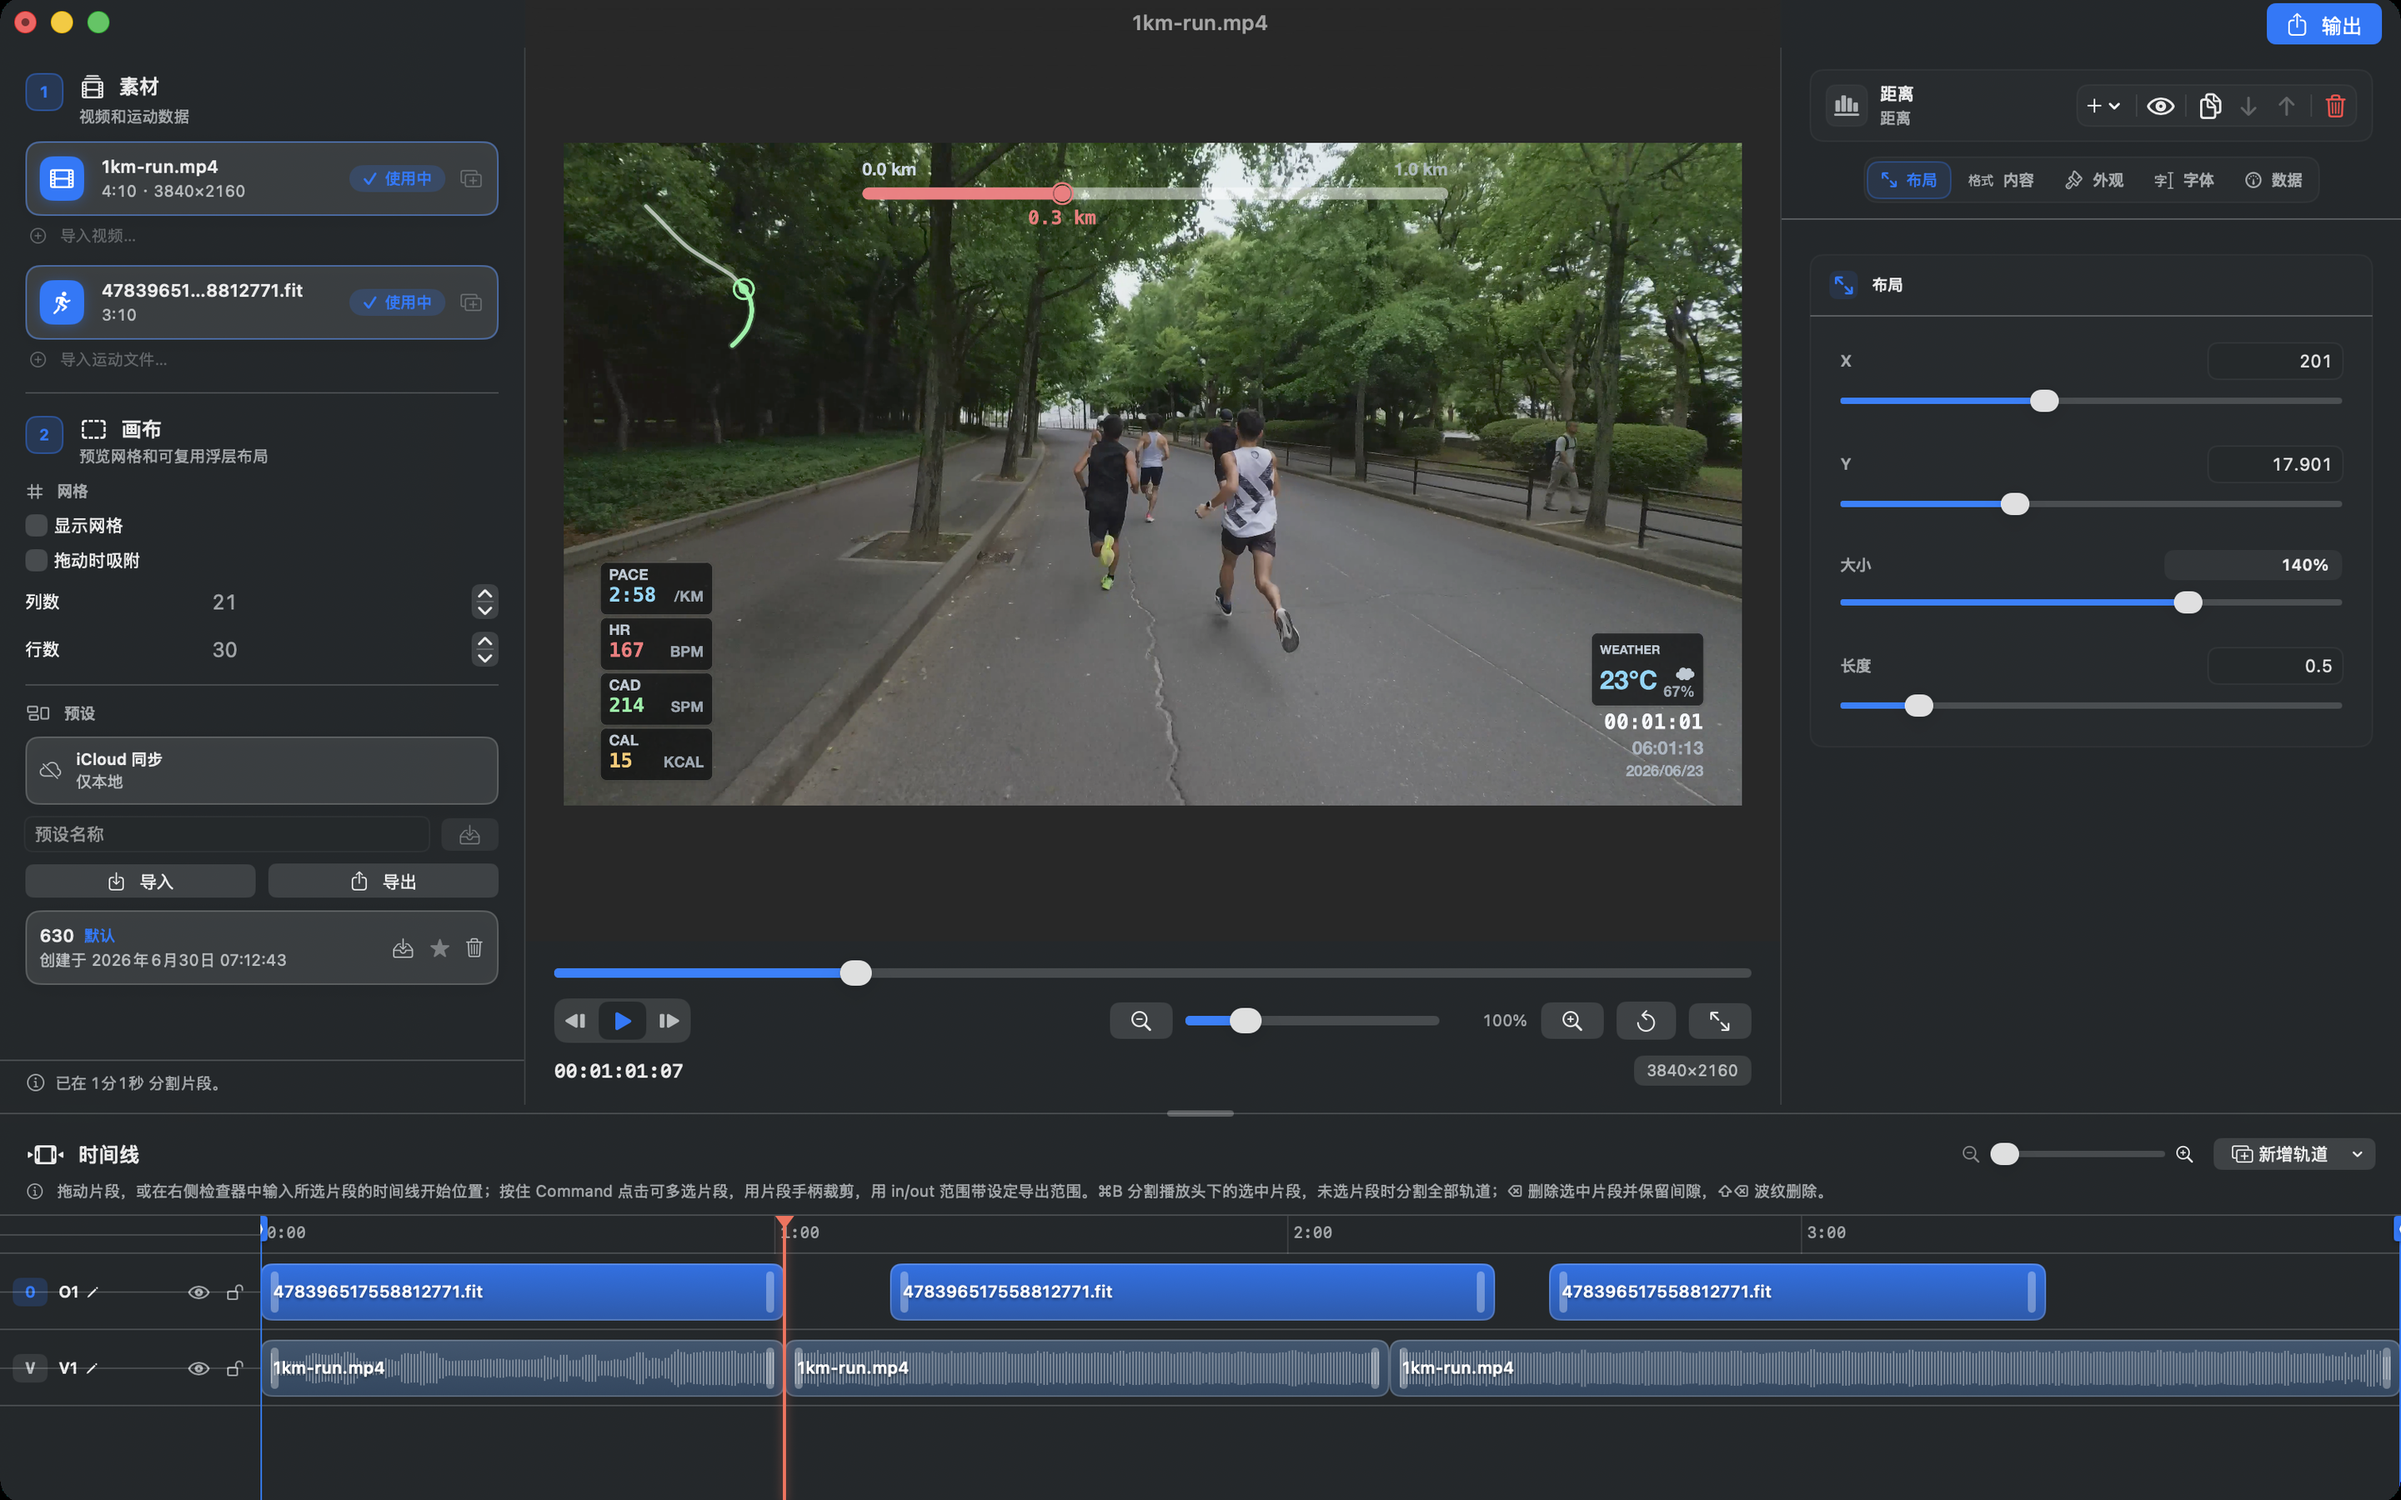
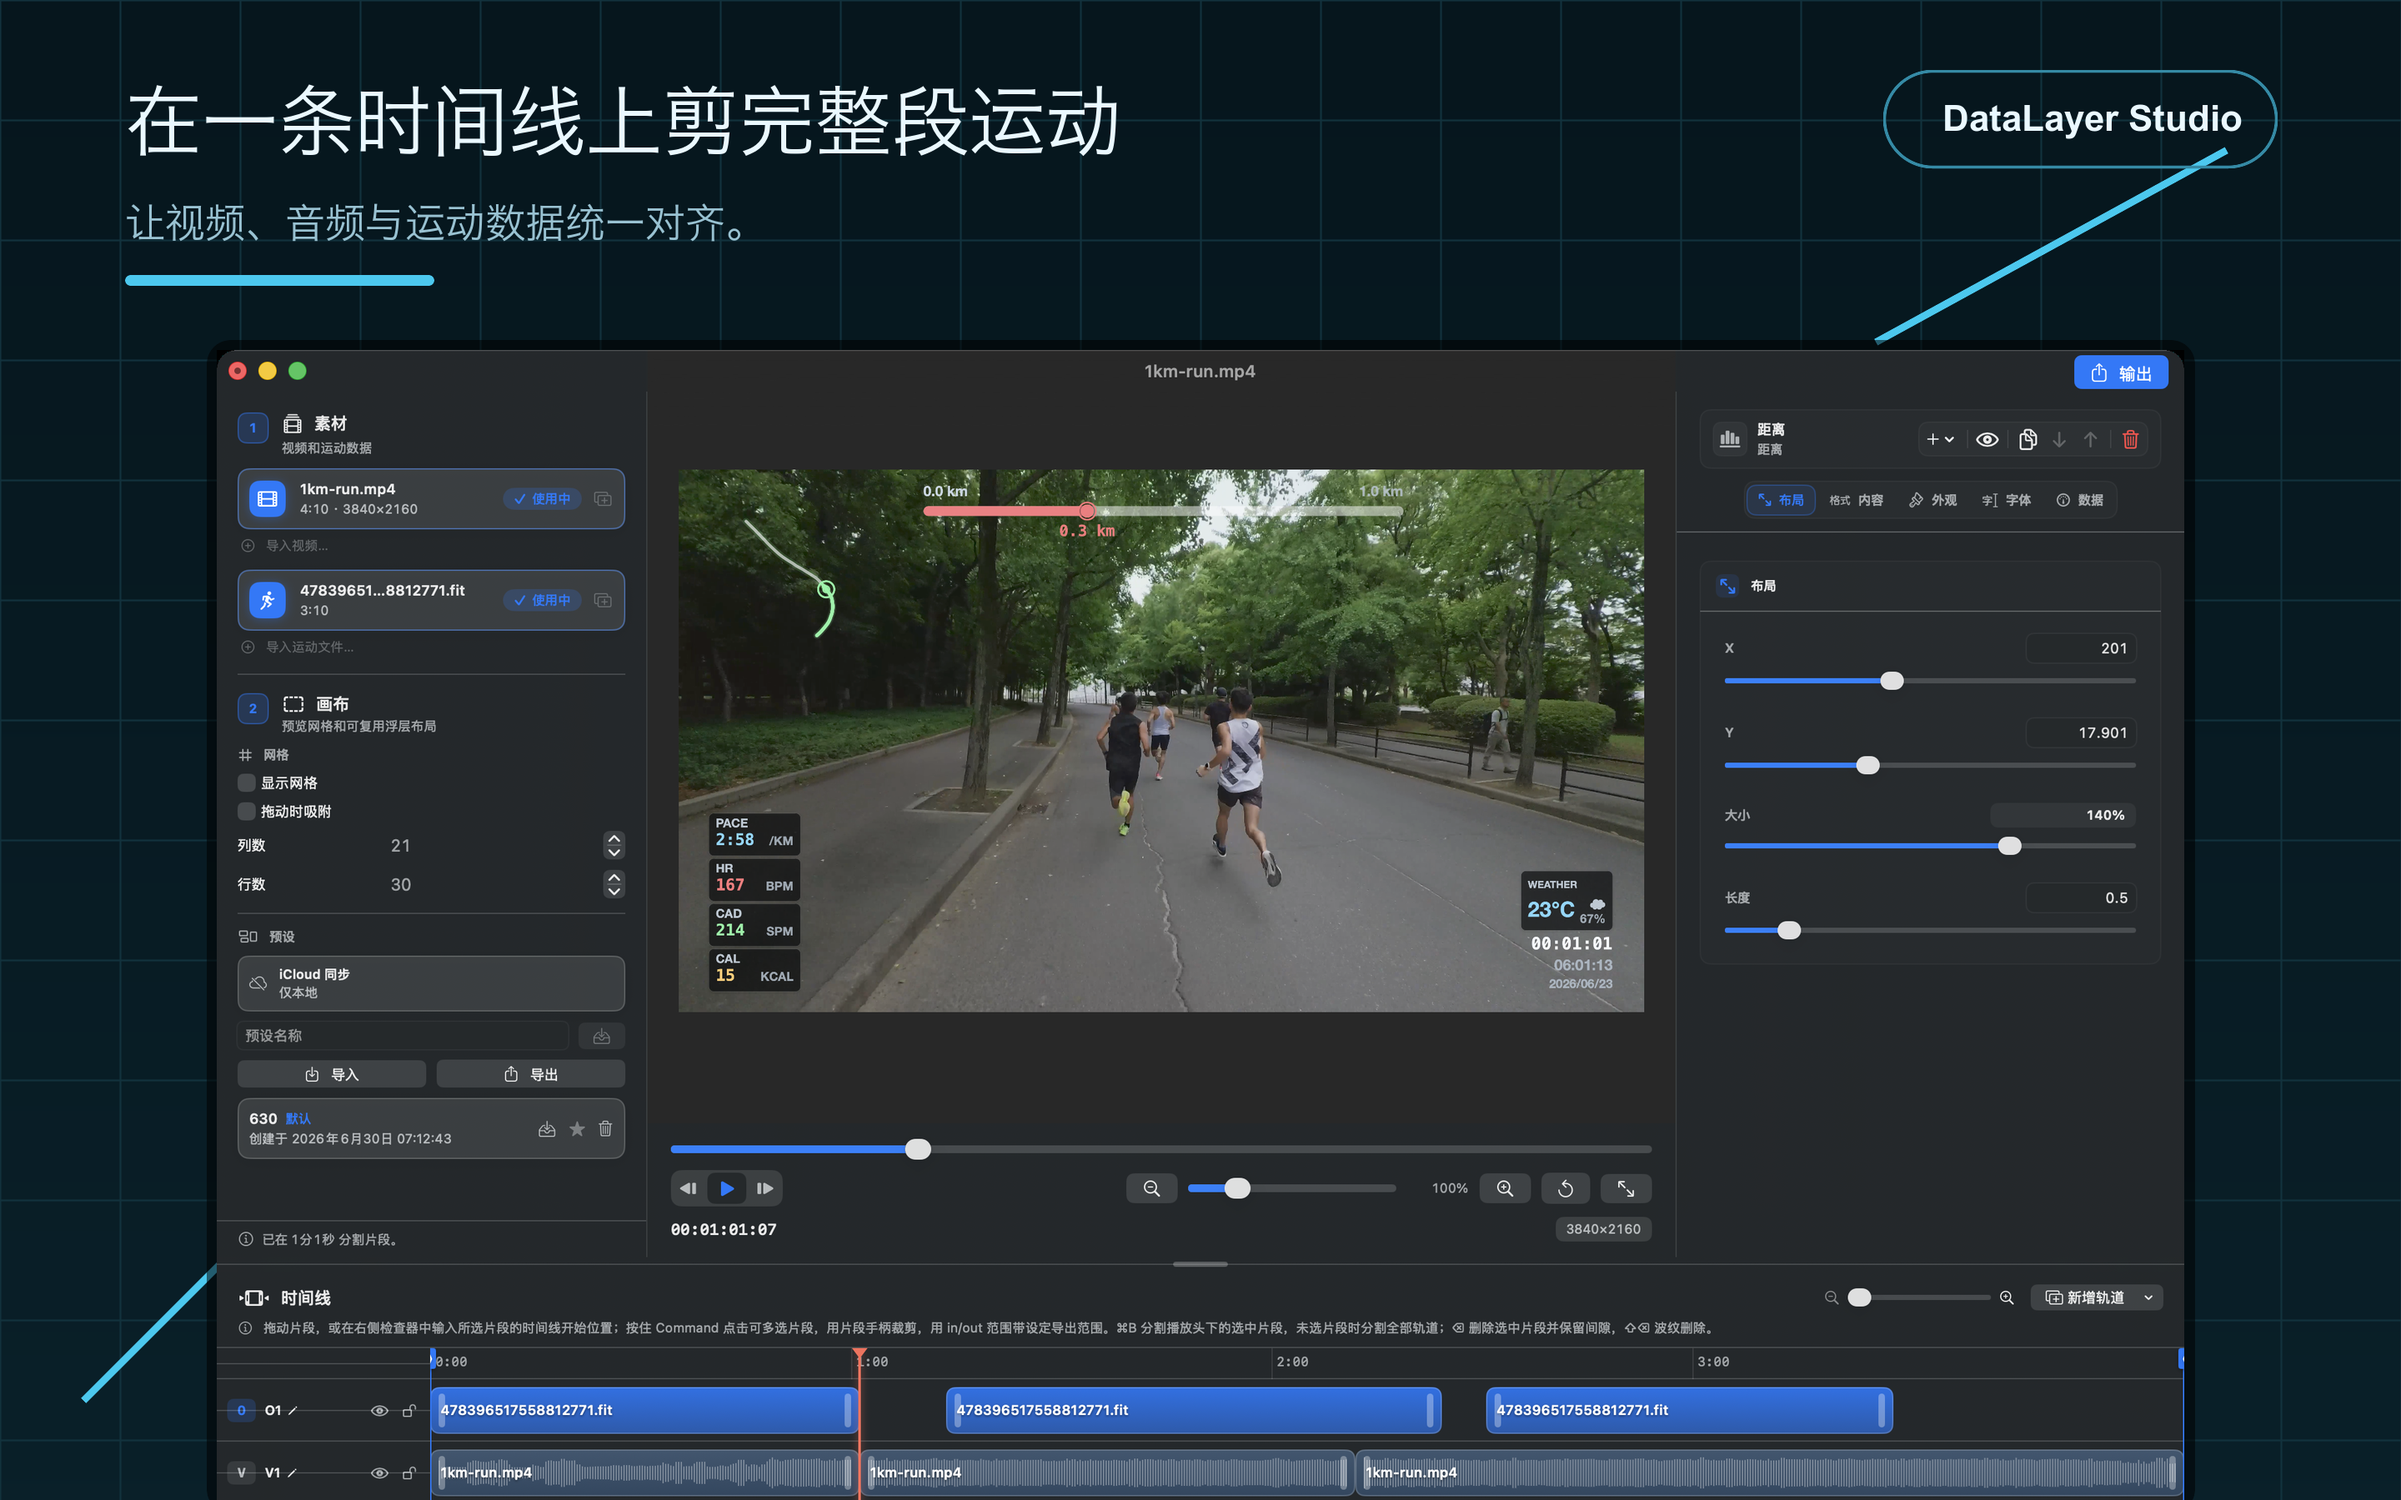
重做 0.2.2 App Store 截图
需求描述：参照 0.2.0 商店图版式，为 0.2.2 制作四语言三图展示。

实现思路：突出多轨时间线、片段剪辑和浮层预览，生成 1440×900 与 2880×1800 两套无 Alpha 图片，并完成 App Store Connect 替换上传。

diff --git a/assets/appstore/v0.2.2/README.md b/assets/appstore/v0.2.2/README.md
@@ -2,9 +2,14 @@
 
 - 设备类型：`APP_DESKTOP`
 - 规格：`2880 × 1800` PNG，无 Alpha
-- 每种语言 1 张：`01-multitrack-timeline.png`
+- 每种语言 3 张：
+  - `01-multitrack-timeline.png`：多轨时间线完整工作区
+  - `02-edit-clips.png`：移动、裁剪、分割与吸附片段
+  - `03-preview-overlay.png`：数据浮层实时预览
 - 语言：`en-US`、`ja`、`zh-Hans`、`zh-Hant`
 - 内容：0.2.2 多轨时间线、视频预览、片段检查器与音频波形
 - 原始截图：`assets/screenshots_raw/v0.2.2/`
 
-2026-07-11 已分别通过 `asc screenshots validate`，并替换上传至 App Store Connect。每个本地化版本均为 1 张，状态为 `COMPLETE`。
+版式参照 `assets/appstore/v0.2.0/`，同时提供 `desktop`（1440 × 900）和 `desktop@2x`（2880 × 1800）。App Store Connect 仅上传 `desktop@2x`。
+
+2026-07-11 已通过 `asc screenshots validate` 并替换上传。四个本地化版本均为 3 张，状态为 `COMPLETE`。
